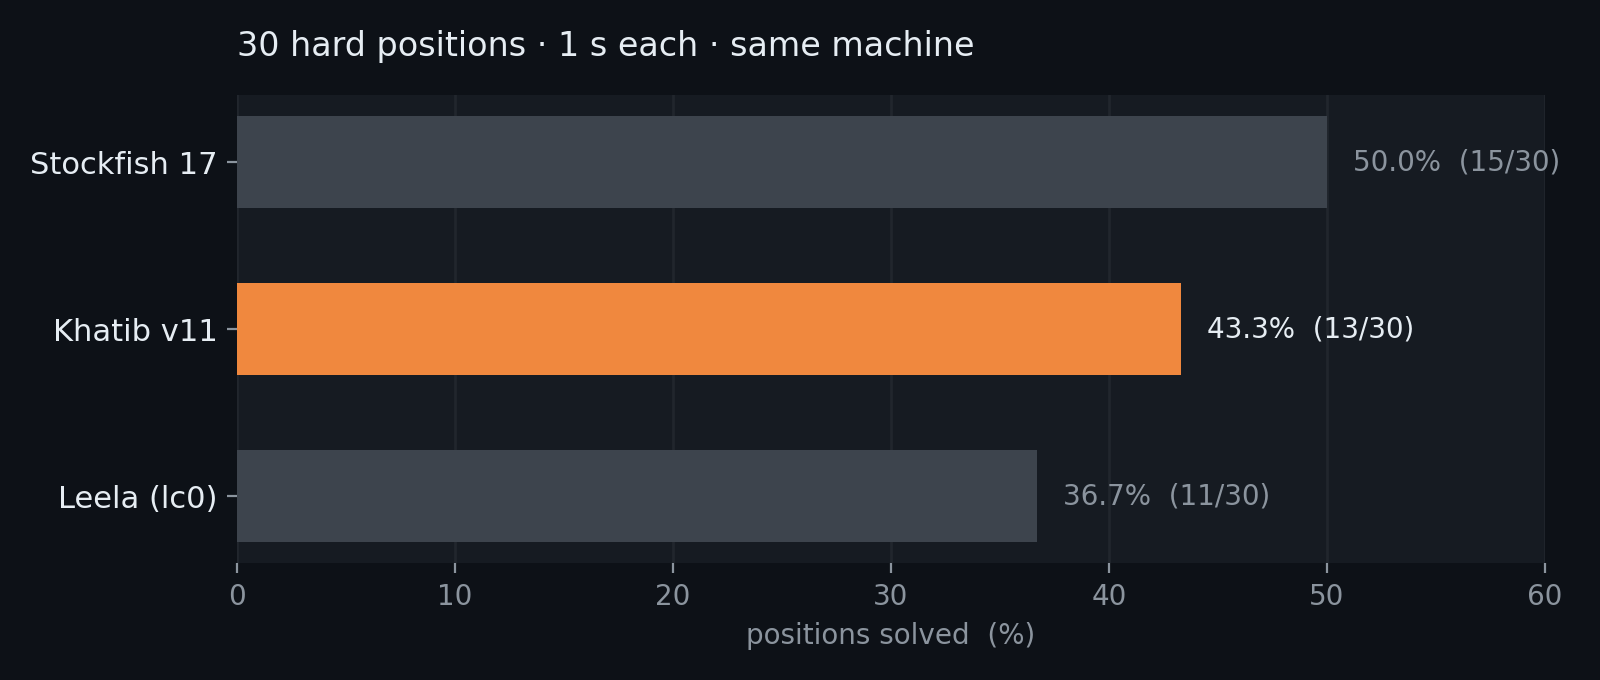
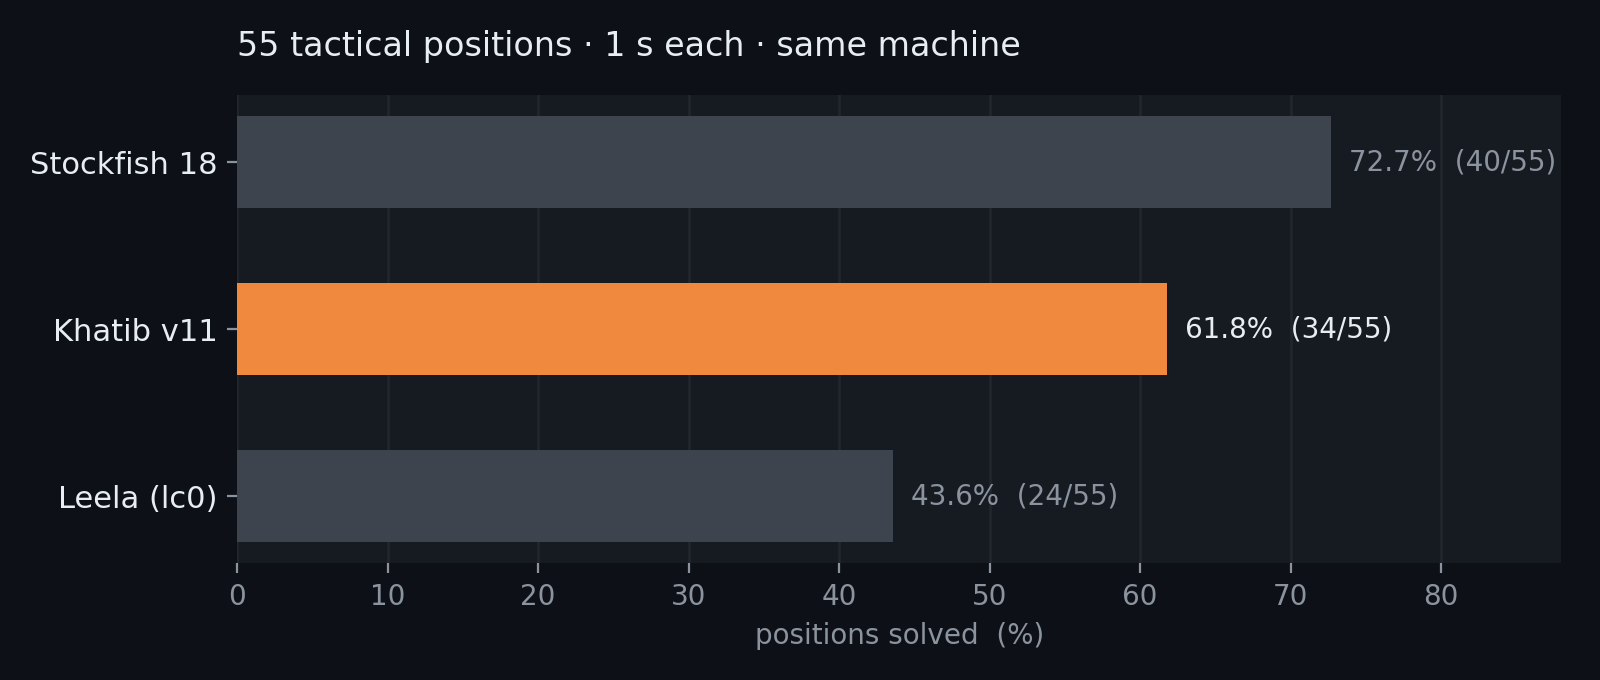
Benchmark on 55 positions, and correct Stockfish's version
The published table was from a 30-position suite and named Stockfish 17;
the installed binary is Stockfish 18, and 30 positions was small enough
that the same comparison moved by two positions between runs -- a SEE
move-ordering change scored 13/30 and 11/30 on consecutive runs of
binaries that turned out to be identical at 34/55 each.

Re-run on 55 unique positions (hard + WAC + tactics, deduplicated by
FEN), one second each, same machine:

  Stockfish 18   40/55   72.7%   avg depth 46.9
  Khatib v11     34/55   61.8%   avg depth 11.8
  Leela (lc0)    24/55   43.6%   avg depth  3.8

Khatib is ten positions clear of Leela and six behind Stockfish. The
depth column is worth showing: Stockfish reaches 47 plies where Khatib
reaches 12, which is the gap in one number.

benchmark.py gains --nodes, so a run can be scored by node count instead
of wall-clock. A time budget measures the machine as much as the engine:
a loaded box reported depth 1 where an idle one reached depth 11.

Also corrects the v11 line to its final 560-game result (+15 +/- 11).

Claude-Session: https://claude.ai/code/session_01TL4qPH3YnnWx7kaMG3oLDo

diff --git a/docs/index.html b/docs/index.html
@@ -10,7 +10,7 @@
 <meta property="og:type" content="website">
 <meta property="og:site_name" content="Khatib">
 <meta property="og:title" content="Khatib — a chess engine in Rust">
-<meta property="og:description" content="Custom NNUE neural network trained on 95M Stockfish-evaluated positions. Outscores Leela on a 30-position tactics suite and is 56-2 against human players. Play it on Lichess.">
+<meta property="og:description" content="Custom NNUE neural network trained on 95M Stockfish-evaluated positions. Outscores Leela on a 55-position tactics suite and is 56-2 against human players. Play it on Lichess.">
 <meta property="og:url" content="https://nesbesss.github.io/khatib-chess/">
 <meta property="og:image" content="https://nesbesss.github.io/khatib-chess/img/social.png?v=45b9fb67">
 <meta property="og:image:width" content="1200">
@@ -162,29 +162,30 @@
 
   <h2>Benchmark</h2>
   <p class="note">
-    Thirty hard positions, one second each, all three engines on the same
-    machine.
+    Fifty-five tactical positions, one second each, all three engines on the
+    same machine.
   </p>
-  <img class="chart" src="img/benchmark.png?v=391f5de0"
-       alt="Stockfish 14 of 30, Khatib 12 of 30, Leela 10 of 30">
+  <img class="chart" src="img/benchmark.png?v=5f971080"
+       alt="Stockfish 40 of 55, Khatib 34 of 55, Leela 24 of 55">
   <table>
-    <tr><th>Engine</th><th class="n">Solved</th></tr>
-    <tr><td>Stockfish 17</td><td class="n">15 / 30</td></tr>
-    <tr class="me"><td>Khatib v11</td><td class="n">13 / 30</td></tr>
-    <tr><td>Leela (lc0)</td><td class="n">11 / 30</td></tr>
+    <tr><th>Engine</th><th class="n">Solved</th><th class="n">Avg depth</th></tr>
+    <tr><td>Stockfish 18</td><td class="n">40 / 55</td><td class="n">46.9</td></tr>
+    <tr class="me"><td>Khatib v11</td><td class="n">34 / 55</td><td class="n">11.8</td></tr>
+    <tr><td>Leela (lc0)</td><td class="n">24 / 55</td><td class="n">3.8</td></tr>
   </table>
   <p class="note">
-    Khatib varies by about a position between runs, so treat the two-position
-    gap to Stockfish as small but real. Stockfish is a far more mature engine and this doesn't claim to match
-    it.
+    An earlier version of this table used a 30-position suite, where the same
+    comparison swung by two positions between runs. Fifty-five positions is
+    still small, so treat the gap to Stockfish as approximate. Stockfish is a
+    far more mature engine and this doesn't claim to match it &mdash; it
+    searches to depth 47 where Khatib reaches 12.
   </p>
 
   <h2>Every version earns its place</h2>
   <p>
     A network ships only after beating the one before it over hundreds of
     games. <b>v10</b> won by <b>+56 &plusmn; 14 Elo</b> across 800 games;
-    <b>v11</b> is currently ahead of it by <b>+15 &plusmn; 14 Elo</b> at 320
-    games, which is the first read whose interval clears zero.
+    <b>v11</b> beat it by <b>+15 &plusmn; 11 Elo</b> across 560 games.
   </p>
   <img class="chart" src="img/progress.png?v=bea408c3"
        alt="Elo gained by each network version, rising from 60 to 313">

diff --git a/scripts/benchmark.py b/scripts/benchmark.py
@@ -30,8 +30,11 @@ class UCI:
             if not line or token in line:
                 return
 
-    def best(self, fen, ms):
-        self.p.stdin.write(f"position fen {fen}\ngo movetime {ms}\n")
+    def best(self, fen, ms, nodes=None):
+        # Node-limited scoring so a busy machine cannot change the result: a
+        # wall-clock budget measures the machine as much as the engine.
+        limit = f"nodes {nodes}" if nodes else f"movetime {ms}"
+        self.p.stdin.write(f"position fen {fen}\ngo {limit}\n")
         self.p.stdin.flush()
         depth = 0
         while True:
@@ -147,12 +150,12 @@ def san_matches(engine_uci, expected_sans, fen, ref):
     return False
 
 
-def run(name, cmd, options, tests, ms, ref):
+def run(name, cmd, options, tests, ms, ref, nodes=None):
     eng = UCI(cmd, options)
     solved, total_depth, misses = 0, 0, []
     t0 = time.time()
     for fen, answers, tid, is_uci in tests:
-        mv, depth = eng.best(fen, ms)
+        mv, depth = eng.best(fen, ms, nodes)
         total_depth += depth
         hit = (mv in answers) if is_uci else (mv and san_matches(mv, answers, fen, ref))
         if hit:
@@ -175,6 +178,8 @@ def main():
     ap.add_argument("--all", action="store_true",
                     help="test our engine and Stockfish")
     ap.add_argument("--ms", type=int, default=1000, help="ms per position")
+    ap.add_argument("--nodes", type=int,
+                    help="nodes per position instead of a time budget")
     ap.add_argument("--suite", default=SUITE)
     a = ap.parse_args()
 
@@ -189,13 +194,14 @@ def main():
     else:
         engines = [(os.path.basename(e), [e], {}) for e in a.engine]
 
+    budget = f"{a.nodes} nodes" if a.nodes else f"{a.ms} ms"
     print(f"Suite: {os.path.basename(a.suite)} — {len(tests)} positions, "
-          f"{a.ms} ms each")
+          f"{budget} each")
     print("(answers verified by deep search; a short budget is what makes "
           "positions hard)\n")
     results = []
     for name, cmd, opts in engines:
-        r = run(name, cmd, opts, tests, a.ms, ref)
+        r = run(name, cmd, opts, tests, a.ms, ref, a.nodes)
         results.append(r)
         pct = 100 * r["solved"] / r["total"]
         print(f"{name:<16} {r['solved']:>2}/{r['total']}  {pct:5.1f}%   "

diff --git a/scripts/make_charts.py b/scripts/make_charts.py
@@ -22,9 +22,9 @@ def _style(ax, fig):
 
 
 def tactics(path="docs/img/benchmark.png"):
-    names = ["Stockfish 17", "Khatib v11", "Leela (lc0)"]
-    vals = [50.0, 43.3, 36.7]
-    raw = ["15/30", "13/30", "11/30"]
+    names = ["Stockfish 18", "Khatib v11", "Leela (lc0)"]
+    vals = [72.7, 61.8, 43.6]
+    raw = ["40/55", "34/55", "24/55"]
     colors = [DIM, ACCENT, DIM]
 
     fig, ax = plt.subplots(figsize=(8, 3.4), dpi=200)
@@ -34,12 +34,12 @@ def tactics(path="docs/img/benchmark.png"):
     ax.set_yticks(list(y))
     ax.set_yticklabels(names, color=INK, fontsize=11)
     ax.invert_yaxis()
-    ax.set_xlim(0, 60)
+    ax.set_xlim(0, 88)
     ax.set_xlabel("positions solved  (%)", color=SUB, fontsize=10)
     for i, (v, r) in enumerate(zip(vals, raw)):
         ax.text(v + 1.2, i, f"{v:.1f}%  ({r})", va="center",
                 color=INK if i == 1 else SUB, fontsize=10)
-    ax.set_title("30 hard positions · 1 s each · same machine",
+    ax.set_title("55 tactical positions \u00b7 1 s each \u00b7 same machine",
                  color=INK, fontsize=12, pad=14, loc="left")
     fig.tight_layout()
     fig.savefig(path, facecolor=BG)
